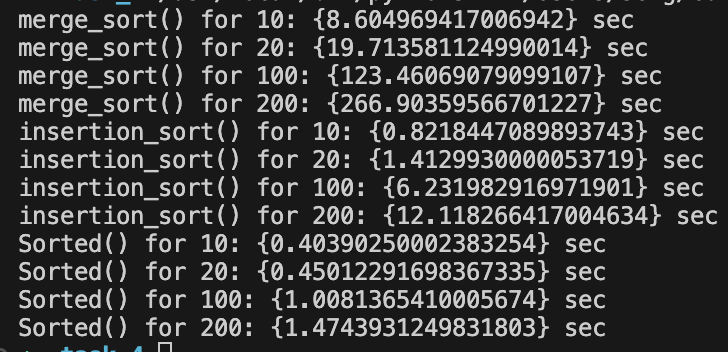
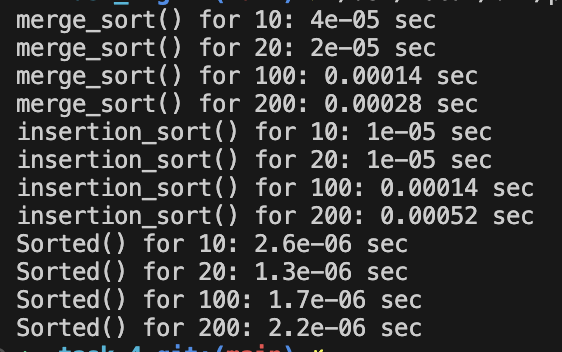
fixed code

diff --git a/sortings.py b/sortings.py
@@ -1,6 +1,5 @@
 import timeit
 import random
-import string
 
 
 def merge_sort(arr):
@@ -71,19 +70,19 @@ for _ in range(200):
 
 
 # merge_sort()
-print('merge_sort() for 10: {} sec'.format({timeit.timeit('[merge_sort(ten_elements)]', globals=globals())}))
-print('merge_sort() for 20: {} sec'.format({timeit.timeit('[merge_sort(twenty_elements)]', globals=globals())}))
-print('merge_sort() for 100: {} sec'.format({timeit.timeit('[merge_sort(hundred_elements)]', globals=globals())}))
-print('merge_sort() for 200: {} sec'.format({timeit.timeit('[merge_sort(two_hundred_elements)]', globals=globals())}))
+print('merge_sort() for 10: {} sec'.format(round(timeit.timeit('[merge_sort(ten_elements)]', number=1, globals=globals()), 5)))
+print('merge_sort() for 20: {} sec'.format(round(timeit.timeit('[merge_sort(twenty_elements)]', number=1, globals=globals()), 5)))
+print('merge_sort() for 100: {} sec'.format(round(timeit.timeit('[merge_sort(hundred_elements)]', number=1, globals=globals()), 5)))
+print('merge_sort() for 200: {} sec'.format(round(timeit.timeit('[merge_sort(two_hundred_elements)]', number=1, globals=globals()), 5)))
 
 # insertion_sort()
-print('insertion_sort() for 10: {} sec'.format({timeit.timeit('[insertion_sort(ten_elements)]', globals=globals())}))
-print('insertion_sort() for 20: {} sec'.format({timeit.timeit('[insertion_sort(twenty_elements)]', globals=globals())}))
-print('insertion_sort() for 100: {} sec'.format({timeit.timeit('[insertion_sort(hundred_elements)]', globals=globals())}))
-print('insertion_sort() for 200: {} sec'.format({timeit.timeit('[insertion_sort(two_hundred_elements)]', globals=globals())}))
+print('insertion_sort() for 10: {} sec'.format(round(timeit.timeit('[insertion_sort(ten_elements)]', number=1, globals=globals()), 6)))
+print('insertion_sort() for 20: {} sec'.format(round(timeit.timeit('[insertion_sort(twenty_elements)]', number=1, globals=globals()), 6)))
+print('insertion_sort() for 100: {} sec'.format(round(timeit.timeit('[insertion_sort(hundred_elements)]', number=1, globals=globals()), 6)))
+print('insertion_sort() for 200: {} sec'.format(round(timeit.timeit('[insertion_sort(two_hundred_elements)]', number=1, globals=globals()), 6)))
 
 # merge()
-print('Sorted() for 10: {} sec'.format({timeit.timeit('[sorted(ten_elements)]', globals=globals())}))
-print('Sorted() for 20: {} sec'.format({timeit.timeit('[sorted(twenty_elements)]', globals=globals())}))
-print('Sorted() for 100: {} sec'.format({timeit.timeit('[sorted(hundred_elements)]', globals=globals())}))
-print('Sorted() for 200: {} sec'.format({timeit.timeit('[sorted(two_hundred_elements)]', globals=globals())}))
+print('Sorted() for 10: {} sec'.format(round(timeit.timeit('[sorted(ten_elements)]', number=1, globals=globals()), 7)))
+print('Sorted() for 20: {} sec'.format(round(timeit.timeit('[sorted(twenty_elements)]', number=1, globals=globals()), 7)))
+print('Sorted() for 100: {} sec'.format(round(timeit.timeit('[sorted(hundred_elements)]', number=1, globals=globals()), 7)))
+print('Sorted() for 200: {} sec'.format(round(timeit.timeit('[sorted(two_hundred_elements)]', number=1, globals=globals()), 7)))

diff --git a/README.md b/README.md
@@ -1,8 +1,8 @@
 ## Висновки
 
 Виходячи з отриманих результатів можна зробити наступний висновок:
-- найшвидший вид сортування - **sorted**. Часова складність такого сортування - **O(logn)**.
-- повільнішим ніж **sorted** є сортування **insertion_sort**. Часова складність - **O(n)**.
+- найшвидший вид сортування - **sorted** ніж два інші на цілий порядок. Часова складність такого сортування - **O(logn)**.
+- повільнішим ніж **sorted** є сортування **insertion_sort**. Дуже добре працює з малими даними (10, 20). Часова складність - **O(n)**.
 - найповільнішим видом сортування з розглянутих є merge_sort. Часова складність - **О(n*logn)**.
 
 ![alt text](https://github.com/sergiishevchenko/goit-algo-hw-04/blob/main/results.png)
